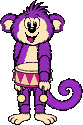
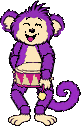
Site: the four pets in their play pose, laughing
The title's pets were the rigs' static assembled pictures (the cat's with a
misdrawn ear). They are now each rig in its play pose with the happy face at
a note's strike, drawn by the pet animator's own code on a clear canvas.

diff --git a/web/pm_site/index.html b/web/pm_site/index.html
@@ -3,7 +3,8 @@
 <!-- The landing page and manual of PurpleMonkey FM-1. web/make_site.py copies it to the site's root and fills
      {{VERSION}} {{PKG}} {{PKG_URL}} {{PRODUCT}}; no other templating. A picture book on top (the rhymes are this
      page's own), the grown-up's manual below. The screens are the emulator's (build/host/pm_emu, 240 x 240); the
-     pets are the rigs' assembled pictures with the ground keyed out (assets/purplemonkey/rig-64-*). -->
+     pets are the rigs in their play pose with the happy face at a note's strike, drawn by the pet animator's own
+     code (tools/rig_editor: solve + drawTo on a clear canvas, cropped). -->
 <html lang="en">
 <head>
 <meta charset="utf-8">
@@ -25,10 +26,10 @@
   </div>
   <div class="band">
     <div class="pets">
-      <img src="img/pet-monkey.png" width="83" height="125" style="--h:125" alt="the Monkey with its drum">
-      <img src="img/pet-cat.png" width="62" height="135" style="--h:135" alt="the Cat at its xylophone">
-      <img src="img/pet-dog.png" width="87" height="136" style="--h:136" alt="the Dog with its microphone">
-      <img src="img/pet-llama.png" width="82" height="165" style="--h:165" alt="the Llama with its bells">
+      <img src="img/pet-monkey.png" width="81" height="126" style="--h:126" alt="the Monkey laughing, playing its drum">
+      <img src="img/pet-cat.png" width="78" height="122" style="--h:122" alt="the Cat laughing, playing its xylophone">
+      <img src="img/pet-dog.png" width="97" height="144" style="--h:144" alt="the Dog laughing, shaking its maracas">
+      <img src="img/pet-llama.png" width="79" height="164" style="--h:164" alt="the Llama laughing, its bells swinging">
     </div>
     <svg viewBox="0 0 1200 150" preserveAspectRatio="none" aria-hidden="true">
       <path d="M0 150 V86 C90 30 190 26 300 70 S500 128 640 62 S900 14 1030 64 S1160 96 1200 60 V150 Z" fill="#8A4FFF"/>
